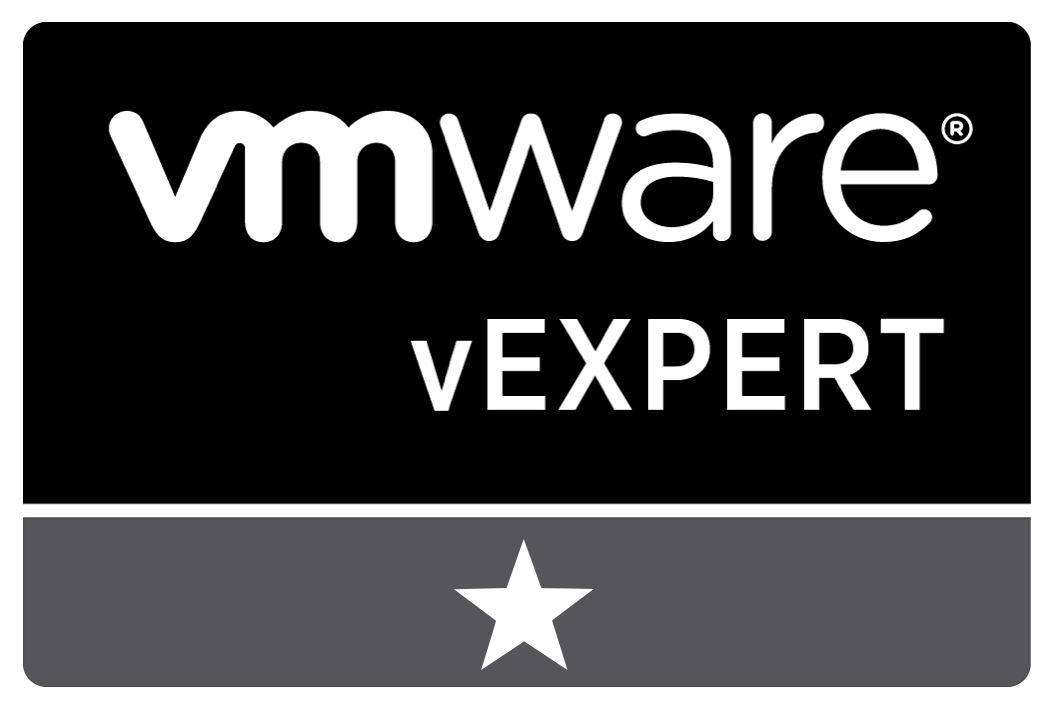
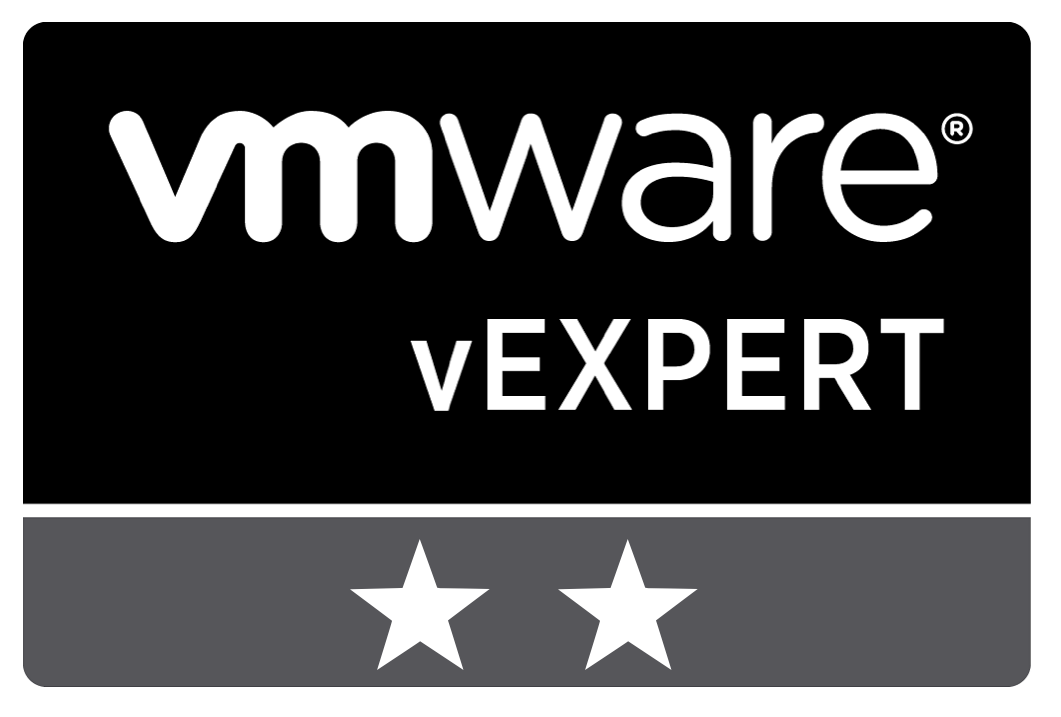
Updated the vExpert badge
I also made some minor changes to the about page.

Changed region(s): [[0.3421, 0.7671, 0.6532, 0.9512]]

diff --git a/about/index.html b/about/index.html
@@ -230,16 +230,16 @@ if (!doNotTrack) {
 <h3 id="author">Author</h3>
 <p>I am originally from Pittsburgh, PA, but I now live in New England.  Despite living in New England, I can still speak native <a href="http://www.pittsburghese.com/">&ldquo;Pittsburghese&rdquo;</a>.  If you don't know what that means don't fret.  I speak fluent English too.</p>
 <p>I am currently the Chief Solutions Evangelist &amp; Architect at <a href="https://www.hytrust.com">HyTrust</a> where I am responsible for evangelizing HyTrust's best-in-class data classification, security, and compliance solutions for worldwide, multi-cloud environments.  I attend many global and national industry events where I speak about security topics and how HyTrust solutions can help customers.</p>
-<p>This year (2019) I finally submitted my application and was accepted into the <a href="https://vexpert.vmware.com/">VMware vExpert Program</a>.</p>
+<p>Back in 2019 I finally submitted my application and was accepted into the <a href="https://vexpert.vmware.com/">VMware vExpert Program</a>.</p>
 <p><figure>
+    <img src="/img/about/VMware-vExpert-2020-badge.png"
+         alt="VMware vExpert 2020 Badge" height="100"/> 
+</figure>
+ <figure>
     <img src="/img/about/VMware-vExpert-badge.png"
          alt="VMware vExpert Badge" height="100"/> 
 </figure>
- You can find me over <a href="https://vexpert.vmware.com/directory/2085">here</a>.  I'm very proud of this distinction because I have been using VMware products/technologies and have spoken about them for many years.  <figure>
-    <img src="/img/about/VMware-vExpert-2019-badge.png"
-         alt="VMware vExpert 2019 Badge" height="100"/> 
-</figure>
-</p>
+  You can find me over <a href="https://vexpert.vmware.com/directory/2085">here</a>.  I'm very proud of this distinction because I have been using VMware products/technologies and have spoken about them for many years.</p>
 <p>It helped that I also got a gentle nudge from <a href="http://blogs.arielsanchezmora.com/">Ariel Sanchez</a>.  He was the one who really pushed me over the edge to do this.  Here is a video where Ariel interviewed me at a past Pittsburgh VMUG Usercon event.  Check it out:
 
 <div style="position: relative; padding-bottom: 56.25%; height: 0; overflow: hidden;">
